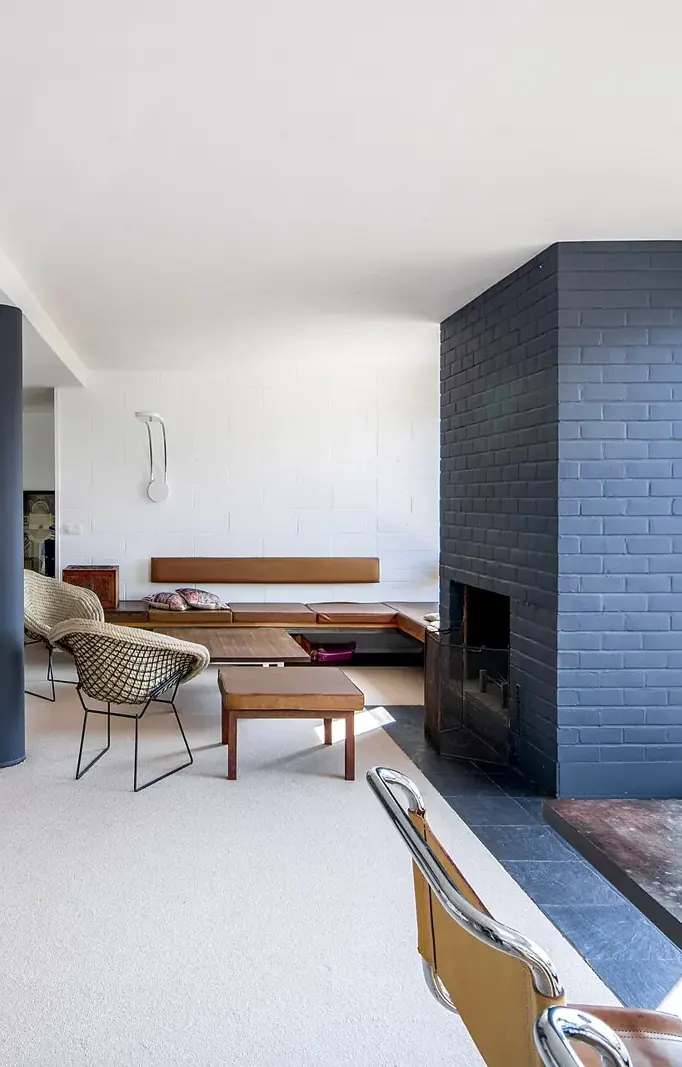
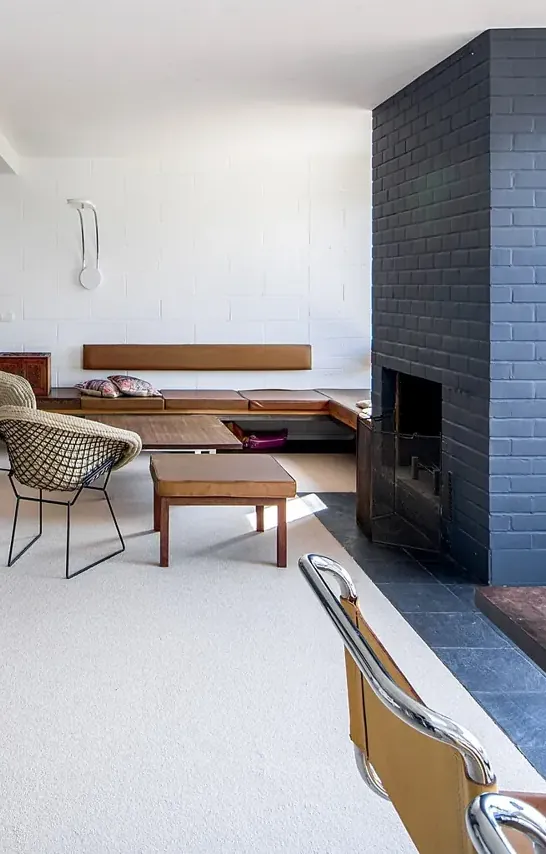
Segunda ronda de revisión: oferta en el hero, contacto y recorrido en móvil
Claude-Session: https://claude.ai/code/session_01ApnLSYo7ho8aEMGU6Dq41B

diff --git a/public/site.css b/public/site.css
@@ -46,8 +46,7 @@ a { text-underline-offset: 0.18em; }
 .metodo__cols h3 { margin: 0 0 var(--s-2); }
 .metodo__cols p { margin: 0; max-width: 40ch; }
 .metodo__photo { min-height: 240px; }
-.form-card { align-self: stretch; }
-.form-card .form { height: 100%; align-content: start; }
+.form-card { align-self: start; }
 
 /* on a phone the split photographs fill their two screens: aim each tall crop at its subject */
 @media (max-width: 639px) {
@@ -66,11 +65,18 @@ a { text-underline-offset: 0.18em; }
   transform: scale(var(--mo-z, 1)); transform-origin: 50% 100%; will-change: transform; }
 @media print { [data-moment="photo-chapters"].is-live .mo-ph__stage > .mo-ph__pic > picture > img { transform: none; } }
 
-/* contact on a tablet or a phone: the photograph takes the spare height, the form keeps its own */
+/* contact on a tablet or a phone: the words, then the form, then the photograph taking the spare height */
+@media (max-width: 1023px) {
+  .contact-aside { display: contents; }
+  #contacto .grid.fill > * , #contacto .contact-aside > * { grid-column: 1 / -1; }
+  #contacto .section-head { order: 0; }
+  #contacto .form-card { order: 1; }
+  #contacto .contact-photo { order: 2; }
+  #contacto .grid.fill { grid-template-rows: auto auto 1fr; }
+}
 @media (max-width: 1023px) {
   .contact-aside { flex: 1 1 auto; }
   .contact-photo { flex: 1 1 0; aspect-ratio: auto; min-height: 280px; }
-  #contacto .grid.fill { grid-template-rows: 1fr auto; align-content: stretch; }
   .form-card { flex: none; align-self: start; }
   .form-card .form { height: auto; }
 }
@@ -87,10 +93,7 @@ a { text-underline-offset: 0.18em; }
 /* the form: the kit's two-up grid; on a desktop the message grows to the card's foot */
 .form-card .form { display: grid; gap: var(--s-4); }
 .field--grow { display: flex; flex-direction: column; }
-@media (min-width: 1024px) {
-  .form-card .form { grid-template-rows: auto auto 1fr auto auto; }
-  .field--grow textarea { flex: 1 1 auto; min-height: 120px; }
-}
+
 
 /* the statement one clear step above its heading */
 #nosotros .mo-wh__text { font-size: clamp(32px, 3.4vw + 14px, 64px); line-height: 1.12; max-width: 1120px; }
@@ -100,4 +103,6 @@ a { text-underline-offset: 0.18em; }
   [data-moment="photo-chapters"].is-live .mo-ph__panel { padding: var(--s-4); gap: var(--s-2); }
   [data-moment="photo-chapters"].is-live .plan { position: absolute; top: var(--s-4); right: var(--s-4); width: 84px; margin: 0; }
   [data-moment="photo-chapters"].is-live .mo-ph__ch h3 { font-size: 20px; margin-top: 30px; }
+  [data-moment="photo-chapters"].is-live .mo-ph__ch p { line-height: 1.45; }
+  [data-moment="photo-chapters"].is-live .mo-ph__head p { position: absolute; width: 1px; height: 1px; overflow: hidden; clip-path: inset(50%); white-space: nowrap; }
 }

diff --git a/DESIGN.md b/DESIGN.md
@@ -127,7 +127,7 @@ One section per screen. Every section is exactly one or two viewport heights (tw
 
 ## Elevation & Depth
 
-Flat. No shadows. Depth comes from photographs and from the one dark band. The float card in the hero and the tour panel are opaque Stone with a hairline, never glass.
+Flat. No shadows. Depth comes from photographs and from the one dark band. The tour panel is opaque Stone, never glass.
 
 ## Shapes
 
@@ -137,10 +137,10 @@ Soft radius: 20px on photographs and the form card, 12px on panels, 8px on butto
 
 - **Buttons:** one primary (cobalt, 44px, arrow glyph) per view and one secondary look (text with an underline and arrow). They step on hover and press on click.
 - **Tour panel:** chapter count, a 168px floor plan (walls in 2.4px graphite with door openings, the terrace's open edge dashed, visited rooms shaded, the room in hand in cobalt, and the dotted cobalt route from the front door that only ever passes through openings), the chapter title and two lines. On a phone the panel is compact: the plan (84px) sits beside the count at the panel's top right.
-- **Hero facts:** three short facts (label in muted 14px, value in 500) at the foot of the words' column on the photograph's bottom line, desktop only.
+- **Hero facts:** the offer as three short facts (offer, end date, code; label in muted 14px, value in 500) at the foot of the words' column on the photograph's bottom line, desktop only. No float card on the photograph.
 - **Services list:** rows with a 1px rule; the photograph beside them swaps instantly to the row under the pointer, focus or tap.
 - **Discount code:** the code set large in the display face with wide tracking, a secondary "Copiar el código" button whose label swaps with a 2px blur for 2 seconds, and a status line.
-- **Form:** visible labels, 48px fields, the kit's two-up grid from 640px (name and email, need and code), the message full width and growing to the card's foot on a desktop, errors under each field in Spanish, one status line, sent through Netlify Forms. On tablet and phone the contact photograph takes the spare height and the form card keeps its own.
+- **Form:** visible labels, 48px fields, the kit's two-up grid from 640px (name and email, need and code), the message full width and growing to the card's foot on a desktop, errors under each field in Spanish, one status line, sent through Netlify Forms. The form card sizes to its content. On tablet and phone the order is words, form, then the photograph taking the spare height.
 
 ## Do's and Don'ts
 
